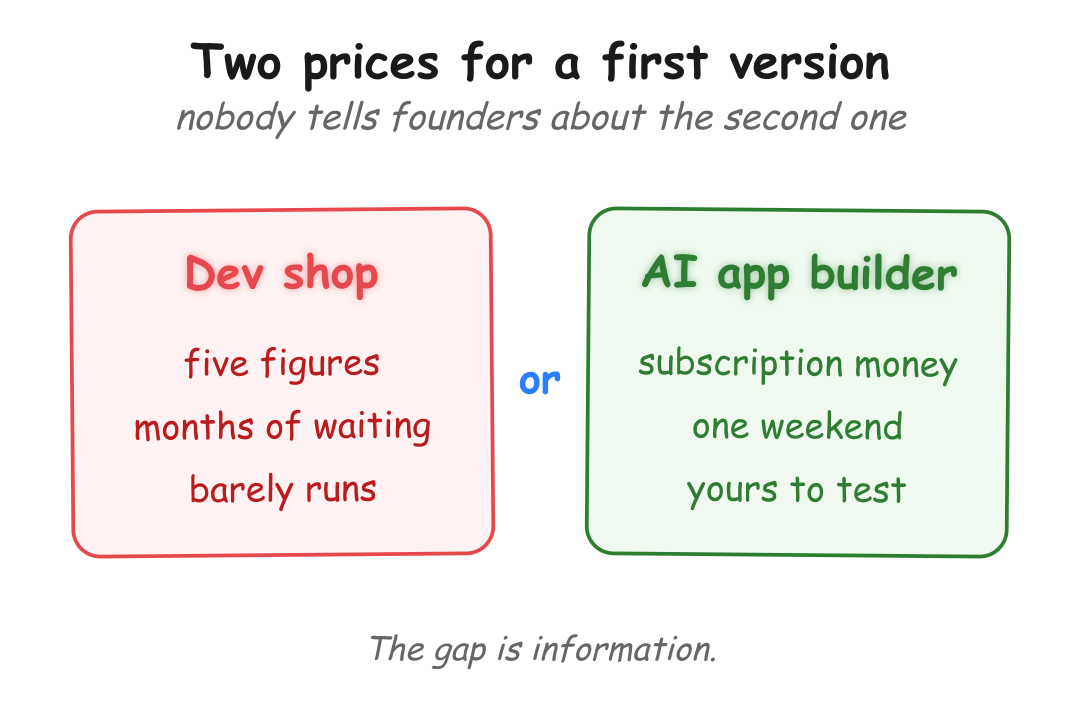
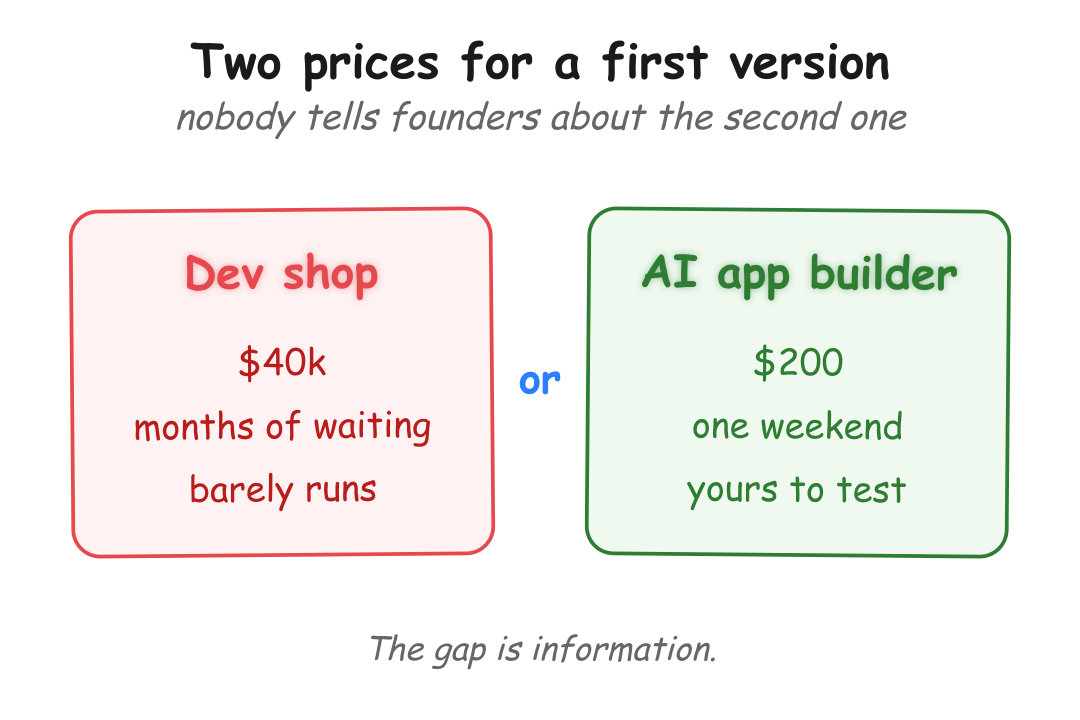
LI: simplify the vendors post throughout, and record the gloss-by-mechanic move
Paul asked to simplify paragraph 2 in strict influencer voice, add the $40k vs $200
comparison, then improve the rest. 156 -> 131 words.

PARAGRAPH 2, the one Paul singled out as working:
  was: "What changed is that the first rough version of most app ideas is now a
       weekend of work. AI app builders like Lovable or v0 cost about as much as a
       streaming subscription: you describe the app in plain words and get
       something you can click, without hiring anyone."
  now: "That same first version is now a weekend with Lovable or v0. You describe
       what you want and it builds it. Even on the priciest models, $200 covers it."
Cut the "What changed is that..." throat-clear, dropped the hedge "most app ideas",
and replaced the simile with Paul's real figure. A simile is what you write when you
lack the number; he had the number.

Recorded as a reusable rule in the pipeline (new section, "Gloss by mechanic, not by
parenthetical"): name the concrete thing in a short declarative, give the mechanic as
its own plain sentence, use the real figure over a comparison. Flagged that this
deliberately differs from the course's parenthetical-gloss rule - different register,
LinkedIn is speech.

REST OF THE POST:
- "someone who knows what they're reading" -> "someone who can read the code". The
  original never said reading WHAT; a non-technical reader could take it as reading
  a contract or a market.
[…]

Changed region(s): [[0.5806, 0.4583, 0.8861, 0.55], [0.1528, 0.4583, 0.3667, 0.55]]

diff --git a/linkedin-posts/personal/bip-vendors-still-burning-founders.md b/linkedin-posts/personal/bip-vendors-still-burning-founders.md
@@ -35,10 +35,14 @@ notes: |
   narrative cartoons make the reader reconstruct causality; exhibits state
   it. Replaced with a house-style contrast-pair exhibit (720x480 SVG ->
   1080px PNG, refactoring.fm look): "Two prices for a first version" -
-  red Dev shop card (five figures / months / barely runs) vs green AI app
-  builder card (subscription money / one weekend / yours to test), basis
-  line mirrors the post's "The gap isn't tech - it's information." Labels
-  match the body's qualitative claims - no invented dollar figures.
+  red Dev shop card vs green AI app
+  builder card, basis line mirrors the post's closing claim.
+  CARDS RE-LABELLED 2026-08-19 with Paul's real figures: "$40k" and "$200"
+  replace "five figures" and "subscription money". The original note said "no
+  invented dollar figures" - correct at the time, since neither number existed in
+  repo canon. Both now come from Paul (the founder's bill, and his cost to build
+  the same thing on the priciest models), so the exhibit states them outright and
+  the 200x gap is visible without reading the post.
   $40k SHARED WITH slot 10 ON PURPOSE (settled 2026-08-19, Paul overruled the
   assistant). Same founder appears in course-promo/backlog-40k-mvp-chasing-fixes
   (Sep 24). The assistant first stripped the figure to "five figures" citing the
@@ -59,12 +63,12 @@ notes: |
 
 Non-technical founders who paid for an MVP that barely runs keep turning up in my network. The last one had spent $40k.
 
-What changed is that the first rough version of most app ideas is now a weekend of work. AI app builders like Lovable or v0 cost about as much as a streaming subscription: you describe the app in plain words and get something you can click, without hiring anyone.
+That same first version is now a weekend with Lovable or v0. You describe what you want and it builds it. Even on the priciest models, $200 covers it.
 
-That gets you far enough to find out whether anyone wants it. Putting it in front of paying customers still needs someone who knows what they're reading.
+That gets you far enough to find out whether anyone wants it. Putting it in front of paying customers needs someone who can read the code.
 
-Nobody tells founders this. Vendors have no reason to, and the tools moved faster than the advice around them. The gap is information.
+Nobody tells founders this. The vendor has no reason to, and the tools moved faster than anyone giving advice. The gap is information.
 
-If you paid for a build you didn't need yet, most people around you would have signed the same contract.
+If you already paid for one, most people around you would have signed the same contract.
 
 What did the vendor tell you before you signed? That part never gets written down.

diff --git a/docs/workflows/linkedin-post-pipeline.md b/docs/workflows/linkedin-post-pipeline.md
@@ -73,6 +73,26 @@ The validation plan offers artifact CTAs ("Comment DEMO and I'll send the script
 
 **Engagement loop replacement:** Open with anecdote → state conviction → give the tactical content → close with a peer question that invites founders to share their own experience. Founders who self-identify in the comments are still the ICP signal — earned through conversation, not gated by an artifact.
 
+### Gloss by mechanic, not by parenthetical (Paul liked this, 2026-08-19)
+
+When a post names a tool or term the ICP may not know, explain it with **a plain
+second sentence describing what it does**, not a parenthetical definition and not a
+simile.
+
+| ✅ Paul flagged this as the version that worked | ❌ What it replaced |
+|---|---|
+| "That same first version is now a weekend with Lovable or v0. **You describe what you want and it builds it.** Even on the priciest models, $200 covers it." | "AI app builders like Lovable or v0 cost about as much as a streaming subscription: you describe the app in plain words and get something you can click, without hiring anyone." |
+
+Three things the good version does: names the concrete thing in a short declarative,
+gives the mechanic as its own plain sentence, and **replaces the simile with the real
+number**. A simile ("costs about as much as a streaming subscription") is what you
+write when you don't have the figure - if the figure exists, use it.
+
+Note this differs from the course rule in `.okf/content/voice-rules.md` ("gloss at
+first mention with a plain-words parenthetical"), which is correct for the course's
+patient second-person register. LinkedIn is shorter and first-person: a parenthetical
+reads as a footnote, a mechanic sentence reads as speech.
+
 ### Voice formula
 
 JetThoughts blog voice: 70% Walling directness + 30% Fishkin vulnerability.
